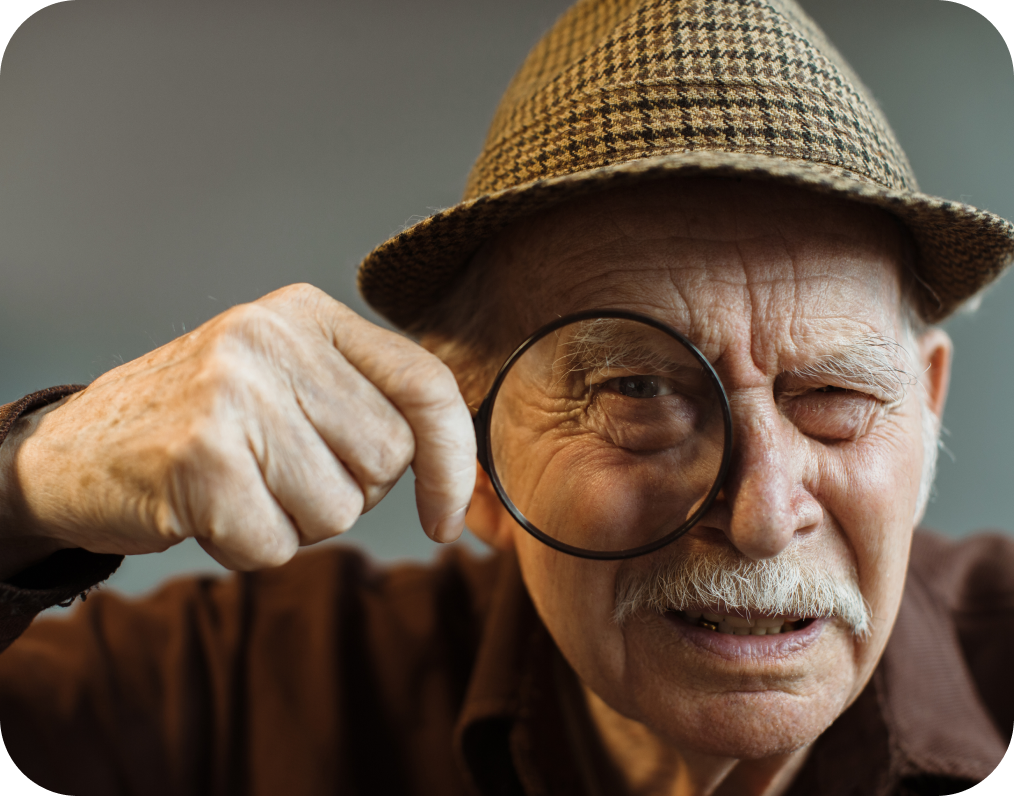
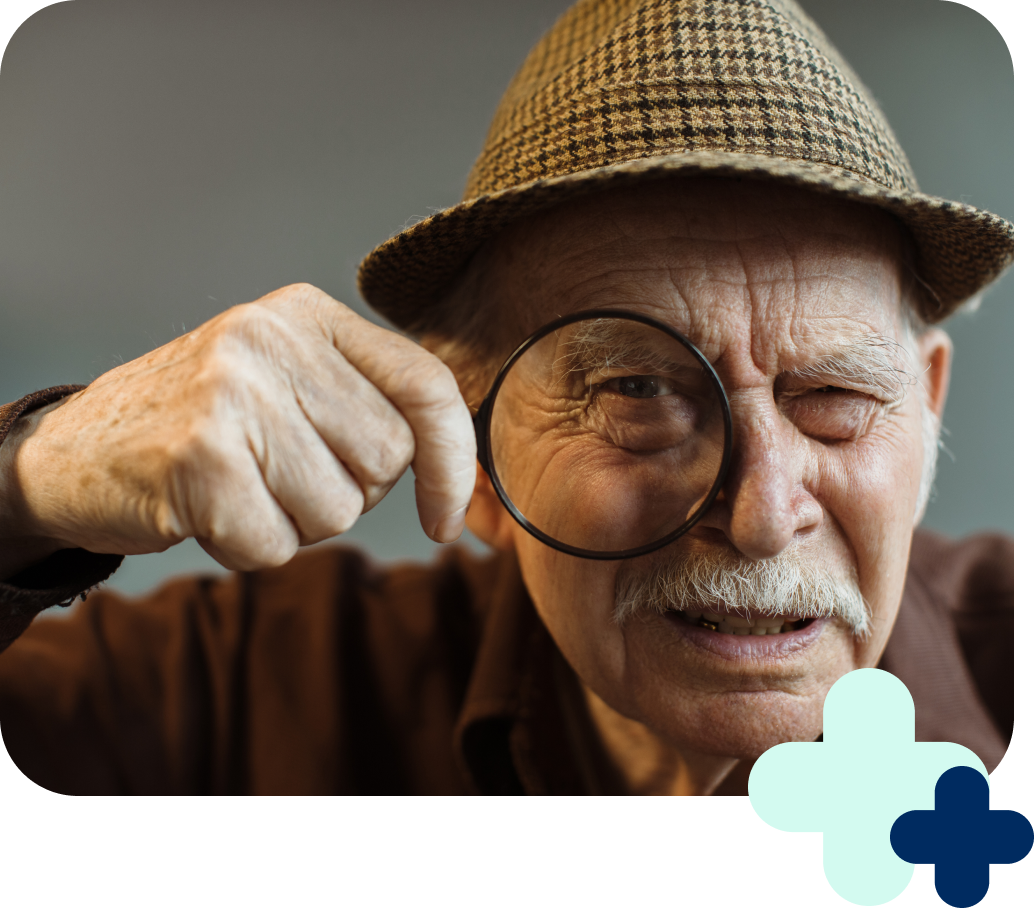
Changes

diff --git a/src/pages/Index.tsx b/src/pages/Index.tsx
@@ -95,10 +95,6 @@ const Index = () => {
             {/* Left - Image */}
             <AnimatedElement type="slideLeft" className="flex-1 relative">
               <img src={seniorDetectiveCloseup} alt="Senior detective with magnifying glass" className="w-full h-auto object-cover rounded-2xl" />
-              {/* Decorative Plus */}
-              <svg className="w-16 h-16 text-[#00BCD4] absolute -bottom-6 right-4 z-10" viewBox="0 0 40 40" fill="currentColor">
-                <path d="M17 0h6v17h17v6H23v17h-6V23H0v-6h17V0z" />
-              </svg>
             </AnimatedElement>
 
             {/* Right - Content */}
